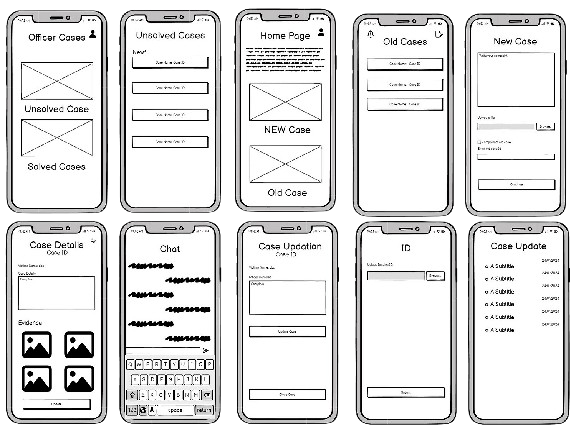
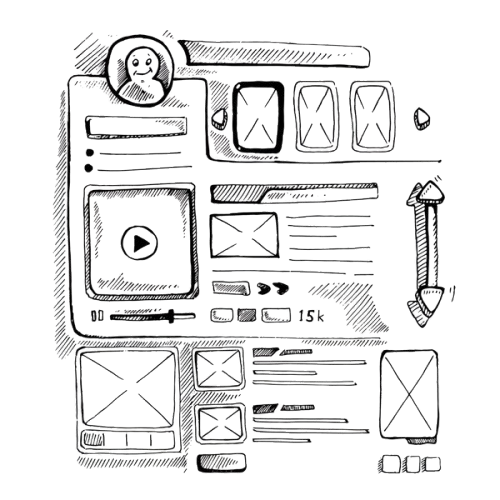
Changes

diff --git a/app/page.tsx b/app/page.tsx
@@ -277,8 +277,8 @@ export default function Home() {
                         <span className="relative flex h-5 w-5 shrink-0 items-center justify-center rounded-full border border-[var(--line)] bg-[var(--canvas)]">
                           <span className="h-2 w-2 rounded-full bg-[var(--accent)]" />
                         </span>
-                        <div className="flex flex-col gap-4 sm:my-0 my-4">
-                          <h3 className="text-lg font-semibold text-[var(--ink)]">
+                        <div className="flex flex-col gap-2 sm:my-0 ">
+                          <h3 className="text-lg font-semibold text-[var(--ink)] md:mt-4 mt-0">
                             {phase.title}
                           </h3>
                           <ul className="space-y-2">
